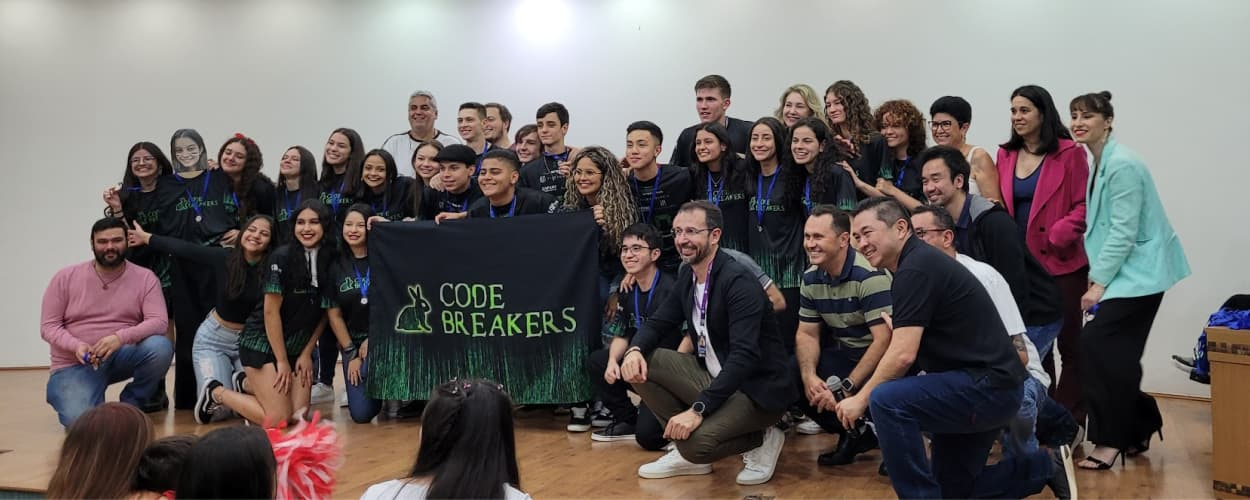
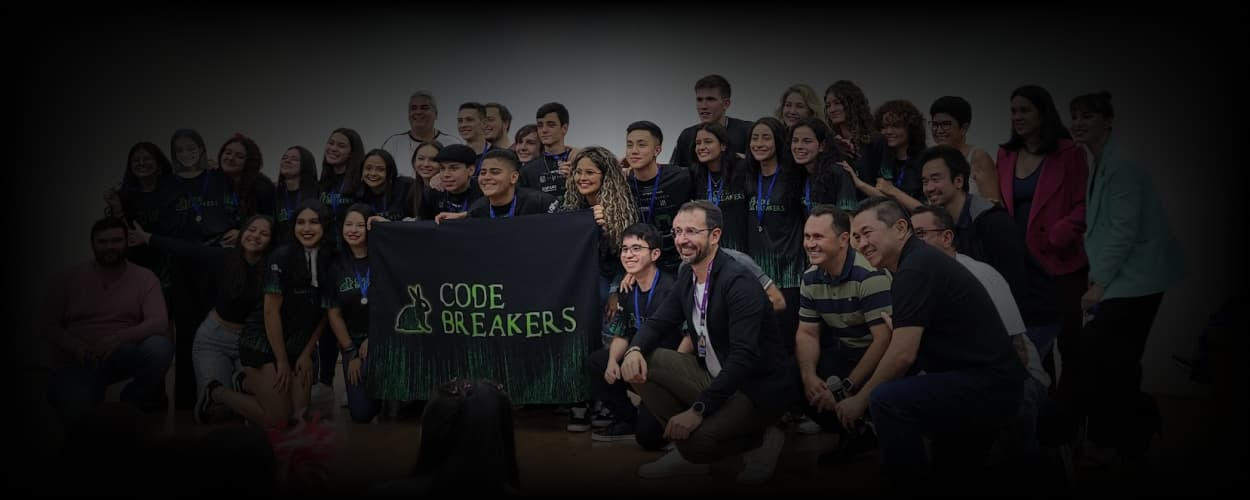
HTML de patrocinadores

diff --git a/core/templates/core/home.html b/core/templates/core/home.html
@@ -258,4 +258,19 @@
       </div>
     </div>
   </article>
+
+  <section class="patrocinadores-container">
+    <div class="titulo-container">
+      <h1 class="titulo titulo-large">Patrocinadores</h1>
+      <p class="titulo-paragrafo">Tenha o nome de sua empresa aqui também, torne-se um de nossos patrocinadoes.</p>
+    </div>
+    <button class="button-patrocinador">
+      <img src="{% static 'logo-tipos/logo-whatsapp.svg' %}" alt="Logo Whatsapp">
+      Torne-se um
+    </button>
+    <ul class="patrocinadores-lista">
+      <li><img src="{% static 'patrocinadores/logo-viacao-garcia.png' %}" alt="Logo Viação Garcia"></li>
+      <li><img src="{% static 'patrocinadores/logo-laura-santos.png' %}" alt="Logo Laura Santos"></li>
+    </ul>
+  </section>
 {% endblock %}

diff --git a/src/css/home/conheca-gincana.css b/src/css/home/conheca-gincana.css
@@ -24,7 +24,7 @@
   content: '';
   width: 100%;
   height: 100%;
-  background-image: url('../../img/backgrounds/conheca-gincana.jpg');
+  background-image: url('../../img/backgrounds/conheca-gincana-m32.jpg');
   box-shadow: inset 40vw 12vw 200px black, inset -40vw -12vw 200px black;
   background-repeat: no-repeat;
   background-size: 100%;
